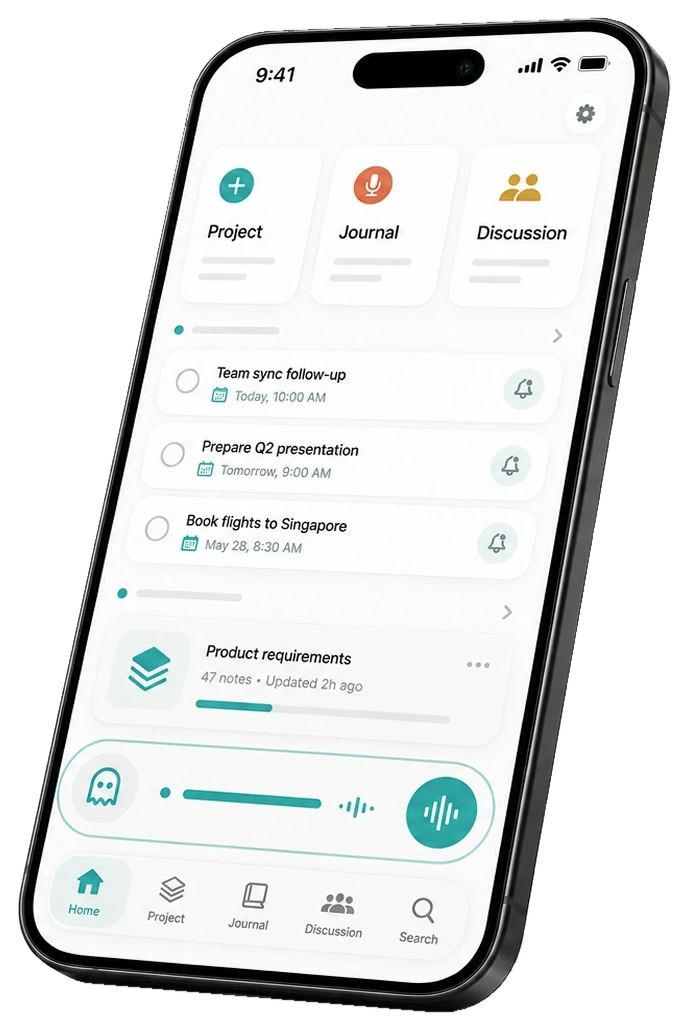
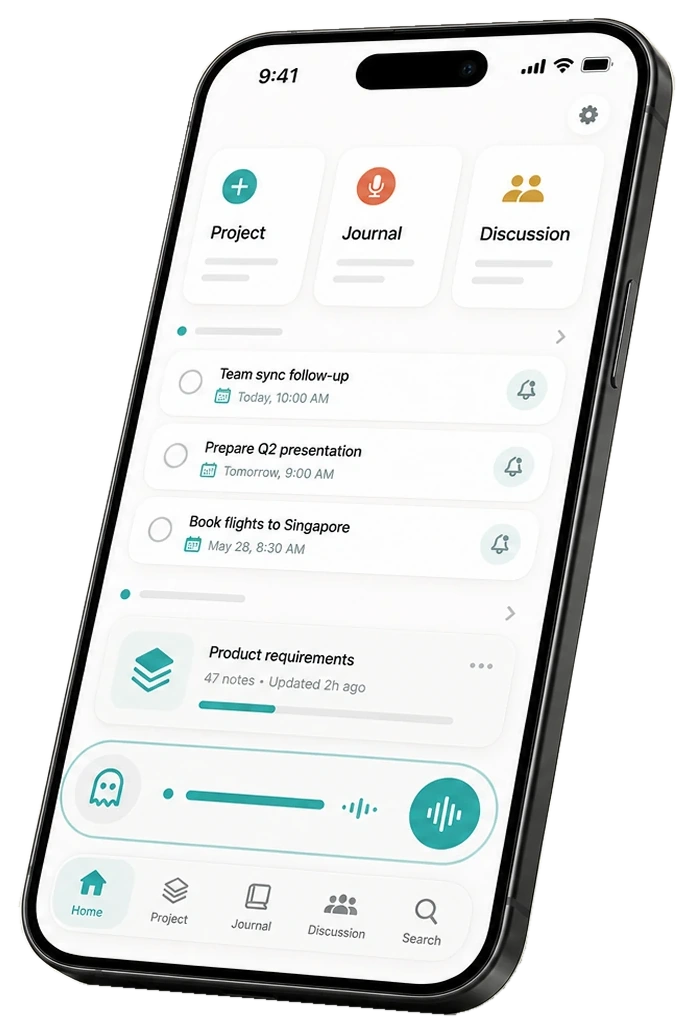
Fix hero cutout top edge over-cut
Apply the original mask only within the four corner regions (keeping
corners rounded) and use pure straight fitted lines along the edges, so
the wavy mask no longer clips the straight top edge inward.

diff --git a/index.html b/index.html
@@ -37,7 +37,7 @@
         }
       })();
     </script>
-    <link rel="stylesheet" href="styles.css?v=20260605q" />
+    <link rel="stylesheet" href="styles.css?v=20260605r" />
   </head>
   <body>
     <header class="site-header" aria-label="Primary navigation">
@@ -97,14 +97,14 @@
           <picture>
             <source
               class="hero-product-source-dark"
-              srcset="assets/hero/miloflow-dynamic-bar-hero-dark.webp?v=20260605q"
+              srcset="assets/hero/miloflow-dynamic-bar-hero-dark.webp?v=20260605r"
               media="(prefers-color-scheme: dark)"
             />
             <img
               class="hero-product-image"
-              src="assets/hero/miloflow-dynamic-bar-hero-light.webp?v=20260605q"
-              data-light-src="assets/hero/miloflow-dynamic-bar-hero-light.webp?v=20260605q"
-              data-dark-src="assets/hero/miloflow-dynamic-bar-hero-dark.webp?v=20260605q"
+              src="assets/hero/miloflow-dynamic-bar-hero-light.webp?v=20260605r"
+              data-light-src="assets/hero/miloflow-dynamic-bar-hero-light.webp?v=20260605r"
+              data-dark-src="assets/hero/miloflow-dynamic-bar-hero-dark.webp?v=20260605r"
               alt=""
               decoding="async"
               fetchpriority="high"